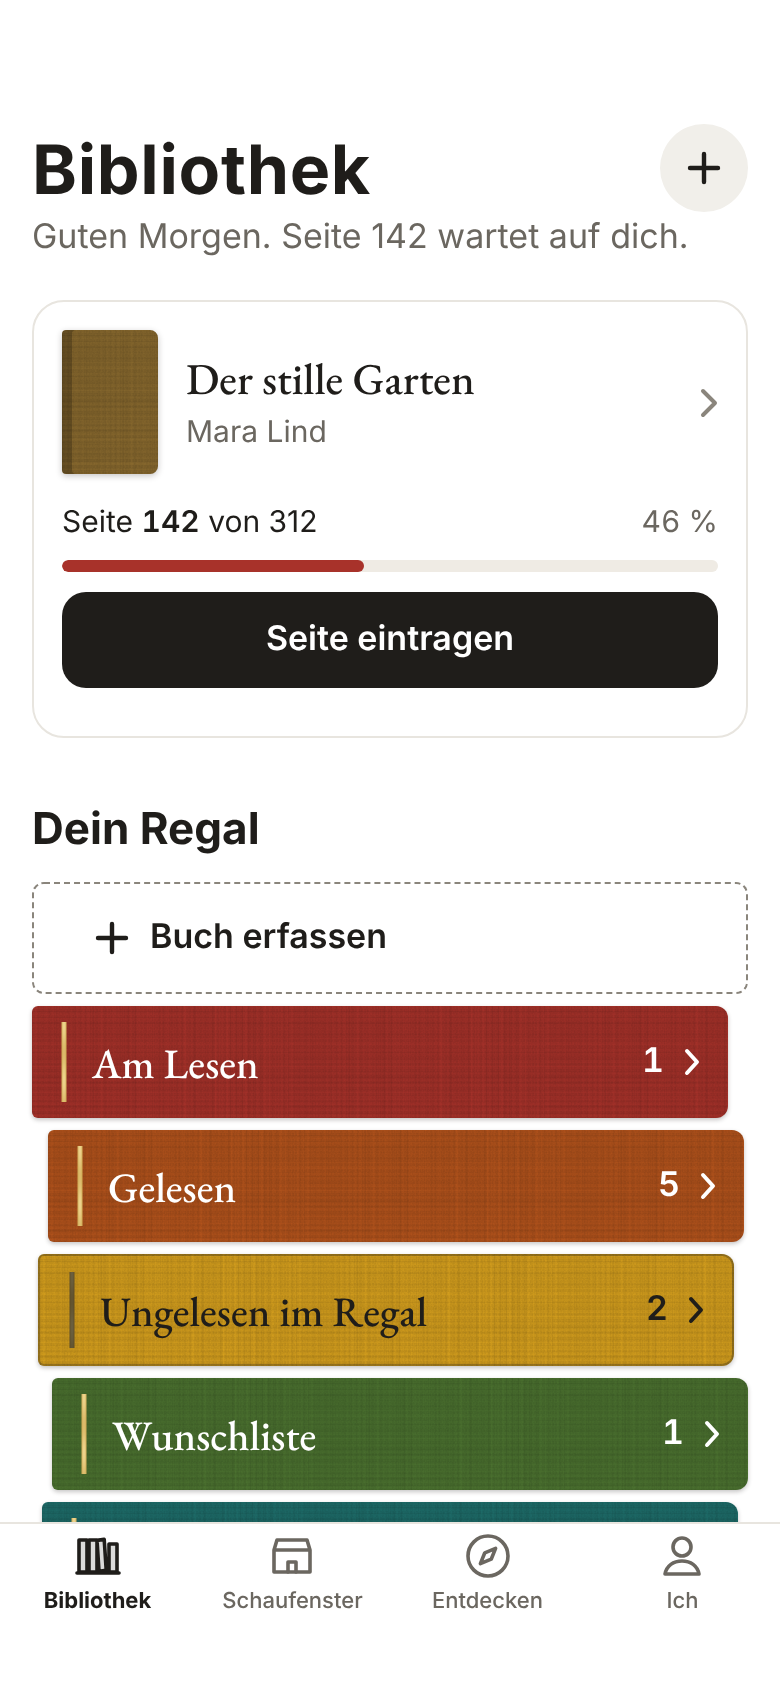
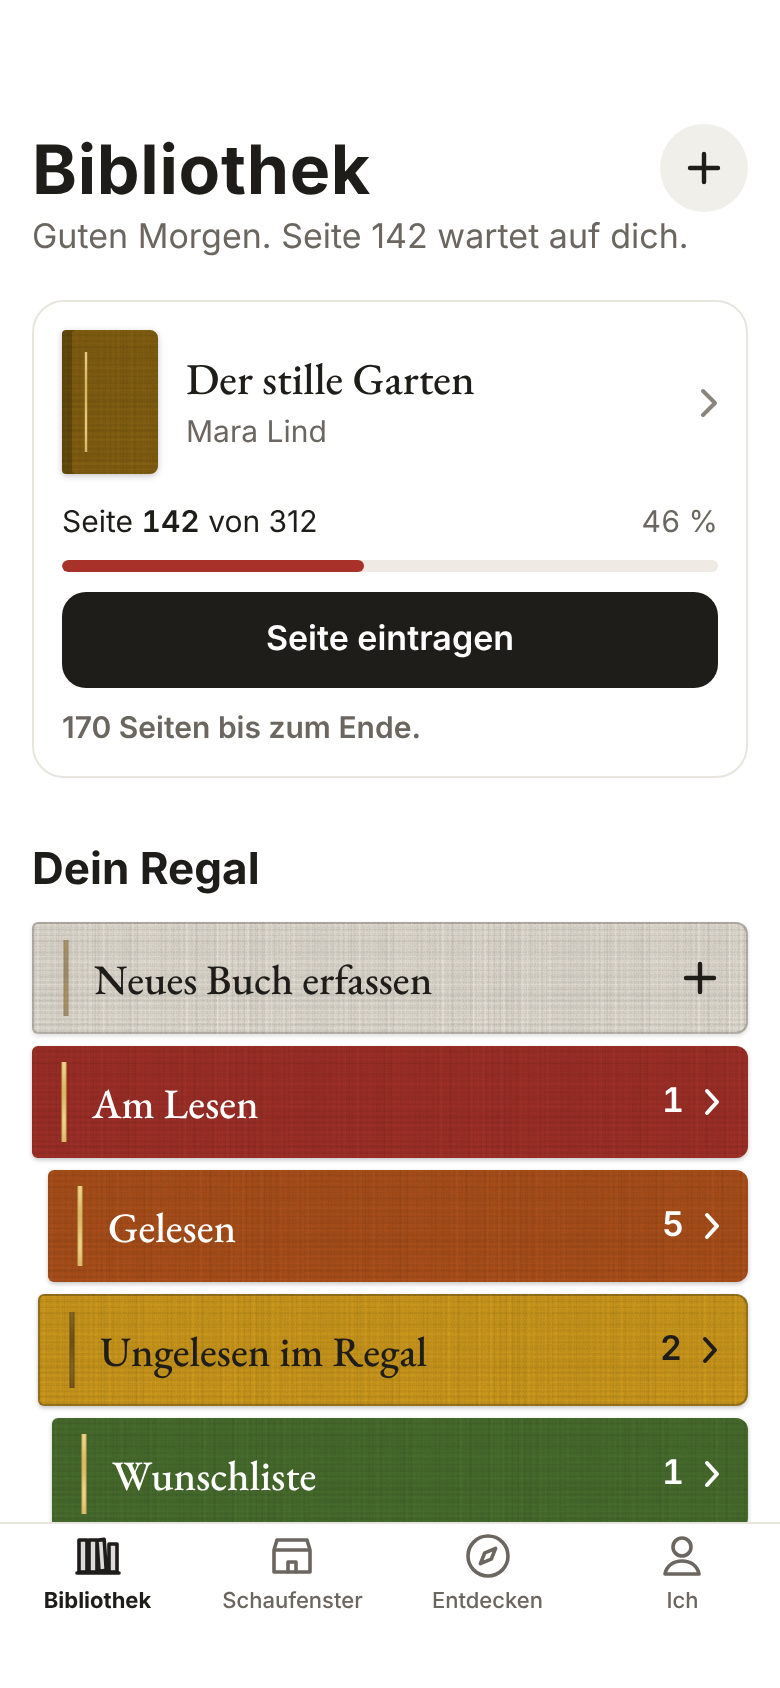
Abschlussprüfung eingearbeitet: Cover in Leinen, Erfassen als Leinenrücken, ruhige Rückmeldung
Claude-Session: https://claude.ai/code/session_01XFBEjrJEUrXQYaFeZnVBdK

Changed region(s): [[0.0308, 0.4005, 0.9846, 0.9242], [0.0923, 0.1848, 0.2154, 0.2773]]

diff --git a/prototyp/app/Bibliothek.dc.html b/prototyp/app/Bibliothek.dc.html
@@ -66,15 +66,16 @@ input[type=search]::-webkit-search-cancel-button{display:none}
 <h2 style="margin: 32px 0 12px 0; font-size: 22px; line-height: 28px; font-weight: 700">Dein Regal</h2>
 <div style="display: flex; flex-direction: column; gap: 6px" role="list">
 <div role="listitem">
-<button type="button" onClick="{{openAdd}}" style="width: 100%; min-height: 56px; box-sizing: border-box; border: 1.5px dashed #8A857C; border-radius: 6px; background: none; padding: 0 16px 0 30px; cursor: pointer; display: flex; align-items: center; gap: 10px; color: #1F1D1A; font-size: 17px; font-weight: 600">
-<svg width="18" height="18" viewBox="0 0 18 18" aria-hidden="true"><path d="M9 2v14M2 9h14" stroke="#1F1D1A" stroke-width="2.2" stroke-linecap="round"></path></svg>
-Buch erfassen
+<button type="button" onClick="{{openAdd}}" class="linen" style="position: relative; width: 100%; min-height: 56px; box-sizing: border-box; border: 1px solid rgba(31,29,26,.22); border-radius: 3px 6px 6px 3px; background-color: #EFE9DE; padding: 8px 0; cursor: pointer; display: flex; align-items: center; color: #1F1D1A; text-align: left; box-shadow: 0 1px 2px rgba(31,29,26,.15)">
+<img src="/_blob/b368959550b051244e1369ca50312065" alt="" style="position: absolute; left: 14px; top: 8px; width: 4px; height: calc(100% - 16px); object-fit: fill; opacity: .55">
+<span style="flex-grow: 1; padding-left: 30px; font-family: 'EB Garamond', Georgia, serif; font-size: 21px; line-height: 25px; font-weight: 500">Neues Buch erfassen</span>
+<svg width="18" height="18" viewBox="0 0 18 18" aria-hidden="true" style="flex-shrink: 0; margin-right: 14px"><path d="M9 2v14M2 9h14" stroke="#1F1D1A" stroke-width="2.2" stroke-linecap="round"></path></svg>
 </button>
 </div>
 <sc-for list="{{spines}}" as="s" hint-placeholder-count="7">
 <div role="listitem" style="{{s.rowStyle}}">
 <button type="button" aria-label="{{s.aria}}" onClick="{{s.open}}" class="linen" style="{{s.style}}">
-<img src="/_blob/eb2b88bd243bf1a65692bd8e9d605dc4" alt="" style="{{s.stamp}}">
+<img src="{{s.stampSrc}}" alt="" style="{{s.stamp}}">
 <span style="{{s.labelStyle}}">{{s.name}}</span>
 <span style="{{s.countStyle}}">{{s.count}}</span>
 <svg width="8" height="14" viewBox="0 0 8 14" aria-hidden="true" style="flex-shrink: 0; margin-right: 14px"><path d="M1.5 1.5l5 5.5-5 5.5" fill="none" stroke="{{s.ink}}" stroke-width="2" stroke-linecap="round" stroke-linejoin="round"></path></svg>
@@ -321,7 +322,8 @@ Bibliothek
 <div style="position: absolute; inset: 0">
 <div aria-hidden="true" onClick="{{closeSheet}}" style="position: absolute; inset: 0; background: rgba(31,29,26,.36)"></div>
 <div class="sheet" role="dialog" aria-modal="true" aria-label="{{sheetTitle}}" style="position: absolute; left: 0; right: 0; bottom: 0; background: #FFFFFF; border-radius: 16px 16px 0 0; padding: 4px 0 40px 0; display: flex; flex-direction: column; box-shadow: 0 -8px 30px rgba(31,29,26,.16)">
-<div style="position: relative; height: 52px; display: flex; align-items: center; justify-content: space-between; padding: 0 8px; border-bottom: 1px solid #EFEBE4">
+<div aria-hidden="true" style="width: 36px; height: 5px; border-radius: 3px; background: #D5D0C7; margin: 2px auto 0 auto"></div>
+<div style="position: relative; height: 48px; display: flex; align-items: center; justify-content: space-between; padding: 0 8px; border-bottom: 1px solid #EFEBE4">
 <button type="button" onClick="{{closeSheet}}" style="min-height: 44px; min-width: 44px; padding: 0 8px; border: none; background: none; cursor: pointer; font-size: 17px; color: #1F1D1A">Abbrechen</button>
 <h2 style="position: absolute; left: 110px; right: 110px; margin: 0; text-align: center; font-size: 17px; line-height: 22px; font-weight: 600; white-space: nowrap; overflow: hidden; text-overflow: ellipsis">{{sheetTitle}}</h2>
 <sc-if value="{{isPageSheet}}" hint-placeholder-val="{{ false }}"><button type="button" onClick="{{savePage}}" disabled="{{saveDisabled}}" style="{{saveBtnStyle}}">Sichern</button></sc-if>
@@ -399,7 +401,7 @@ var VOLS = [
   { key: 'stats', name: 'Statistiken', color: '#5A3D85', ink: '#FFFFFF', sub: 'Was dein Lesen über dich erzählt.' }
 ];
 var BOOKS = [
-  { id: 'garten', vol: 'lesen', title: 'Der stille Garten', author: 'Mara Lind', genre: 'Roman / Gegenwart', pages: 312, c: '#8A6A2E', status: 'Am Lesen seit 2. Oktober',
+  { id: 'garten', vol: 'lesen', title: 'Der stille Garten', author: 'Mara Lind', genre: 'Roman / Gegenwart', pages: 312, c: '#8A6512', status: 'Am Lesen seit 2. Oktober',
     copy: [['Format', 'Hardcover'], ['Steht', 'Nachttisch']], history: [['Begonnen', '2. Okt. 2026']] },
   { id: 'salz', vol: 'gelesen', fresh: true, title: 'Salz und Asche', author: 'Jonas Brehm', genre: 'Roman / Gegenwart', c: '#6E1E18', stars: 4, done: 'September 2026',
     reading: 'Für mich ist es kein Buch über eine Familie, sondern über das Bleiben. Alle wollen weg von der Küste, und am Ende ist sie das Einzige, das jedem von ihnen gehört.',
@@ -407,24 +409,24 @@ var BOOKS = [
     flow: 'flüssig', lang: 'schön', tempo: 'ruhig', echo: 'lässt mich nicht los', reread: 'vielleicht', more: 'unbedingt', moods: 'mitgerissen, nachdenklich',
     strong: 'Atmosphäre, Sprache', weak: 'Ende',
     copy: [['Format', 'Hardcover, Erstausgabe'], ['Besonderheit', 'signiert'], ['Steht', 'Wohnzimmer, Regal 2']], history: [['Begonnen', '2. Sept. 2026'], ['Beendet', '21. Sept. 2026']] },
-  { id: 'uhr', vol: 'gelesen', title: 'Die Uhrmacherin', author: 'Lea Sander', genre: 'Roman / Gegenwart', c: '#2C3F66', stars: 5, done: 'August 2026',
+  { id: 'uhr', vol: 'gelesen', title: 'Die Uhrmacherin', author: 'Lea Sander', genre: 'Roman / Gegenwart', c: '#1C3860', stars: 5, done: 'August 2026',
     quote: 'Jede Stunde, die sie reparierte, gehörte danach ein wenig ihr.', quotePage: 88,
     flow: 'nicht weglegbar', lang: 'jeder Satz sitzt', tempo: 'ausgewogen', echo: 'denke noch daran', reread: 'ja, sicher', more: 'unbedingt', moods: 'berührt',
     strong: 'Figuren, Sprache, Ende', weak: 'nichts',
     copy: [['Format', 'Taschenbuch']], history: [['Beendet', 'Aug. 2026']] },
-  { id: 'moewe', vol: 'gelesen', title: 'Die Möwenuhr', author: 'Jonas Brehm', genre: 'Roman / Gegenwart', c: '#3F5A3A', stars: 4.5, done: 'Juli 2026',
+  { id: 'moewe', vol: 'gelesen', title: 'Die Möwenuhr', author: 'Jonas Brehm', genre: 'Roman / Gegenwart', c: '#2F4A1E', stars: 4.5, done: 'Juli 2026',
     copy: [['Format', 'Taschenbuch']], history: [['Beendet', 'Juli 2026']] },
-  { id: 'winter', vol: 'gelesen', title: 'Was der Winter weiß', author: 'Henrik Aal', genre: 'Historischer Roman', c: '#4A4A46', stars: 3.5, done: 'Juni 2026',
+  { id: 'winter', vol: 'gelesen', title: 'Was der Winter weiß', author: 'Henrik Aal', genre: 'Historischer Roman', c: '#3A2756', stars: 3.5, done: 'Juni 2026',
     copy: [['Format', 'E-Book']], history: [['Beendet', 'Juni 2026']] },
-  { id: 'stille', vol: 'gelesen', title: 'Kleine Geschichte der Stille', author: 'Ina Roth', genre: 'Sachbuch', c: '#7A5A20', stars: 4, done: 'Mai 2026',
+  { id: 'stille', vol: 'gelesen', title: 'Kleine Geschichte der Stille', author: 'Ina Roth', genre: 'Sachbuch', c: '#7A3812', stars: 4, done: 'Mai 2026',
     copy: [['Format', 'Hardcover']], history: [['Beendet', 'Mai 2026']] },
-  { id: 'moor', vol: 'ungelesen', title: 'Das Haus am Moor', author: 'Clara Feld', genre: 'Krimi & Thriller', c: '#4E3550', status: 'Im Regal seit März 2025',
+  { id: 'moor', vol: 'ungelesen', title: 'Das Haus am Moor', author: 'Clara Feld', genre: 'Krimi & Thriller', c: '#3A2756', status: 'Im Regal seit März 2025',
     copy: [['Format', 'Taschenbuch'], ['Steht', 'Flur, oberstes Fach']], history: [['Gekauft', 'März 2025']] },
-  { id: 'see', vol: 'ungelesen', title: 'Ein Jahr auf See', author: 'Tomas Lund', genre: 'Reise & Natur', c: '#2C5590', status: 'Geschenkt im Mai 2026',
+  { id: 'see', vol: 'ungelesen', title: 'Ein Jahr auf See', author: 'Tomas Lund', genre: 'Reise & Natur', c: '#1C3860', status: 'Geschenkt im Mai 2026',
     copy: [['Herkunft', 'Geschenk']], history: [['Geschenkt bekommen', 'Mai 2026']] },
-  { id: 'nebel', vol: 'wunsch', title: 'Die Farbe des Nebels', author: 'Anouk Vries', genre: 'Roman / Gegenwart', c: '#5C5C58', status: 'Vorgemerkt im Oktober 2026',
+  { id: 'nebel', vol: 'wunsch', title: 'Die Farbe des Nebels', author: 'Anouk Vries', genre: 'Roman / Gegenwart', c: '#134846', status: 'Vorgemerkt im Oktober 2026',
     copy: [], history: [['Vorgemerkt', 'Okt. 2026']] },
-  { id: 'fluss', vol: 'abgebrochen', title: 'Der lange Fluss', author: 'Paul Neumann', genre: 'Historischer Roman', c: '#263A5A', status: 'Abgebrochen bei Seite 87',
+  { id: 'fluss', vol: 'abgebrochen', title: 'Der lange Fluss', author: 'Paul Neumann', genre: 'Historischer Roman', c: '#1C3860', status: 'Abgebrochen bei Seite 87',
     copy: [['Format', 'Hardcover']], history: [['Begonnen', 'Apr. 2026'], ['Abgebrochen bei Seite 87', 'Mai 2026']] }
 ];
 var SHELVES = 0;
@@ -436,7 +438,7 @@ function stars(n) {
 }
 function cover(c, w, h) {
   var hinge = Math.round(w * 0.1);
-  return 'flex-shrink: 0; width: ' + w + 'px; height: ' + h + 'px; border-radius: 2px 4px 4px 2px; background-color: ' + c + '; box-shadow: inset ' + hinge + 'px 0 0 rgba(0,0,0,.22), 0 1px 3px rgba(31,29,26,.25)';
+  return 'flex-shrink: 0; width: ' + w + 'px; height: ' + h + 'px; border-radius: 2px 4px 4px 2px; background-color: ' + c + '; background-image: url(/_blob/eb2b88bd243bf1a65692bd8e9d605dc4), url(/_blob/fc177fec48818780d685607b9eea21d5); background-size: ' + Math.max(2, Math.round(w / 24)) + 'px 70%, 128px 128px; background-position: ' + (hinge + Math.round(w * 0.12)) + 'px 50%, 0 0; background-repeat: no-repeat, repeat; background-blend-mode: normal, multiply; box-shadow: inset ' + hinge + 'px 0 0 rgba(0,0,0,.22), 0 1px 3px rgba(31,29,26,.25)';
 }
 function rowStyle(i) { return 'display: flex; justify-content: space-between; align-items: center; gap: 12px; min-height: 48px; padding: 10px 16px; box-sizing: border-box' + (i ? '; border-top: 1px solid #EFEBE4' : ''); }
 function computeStats() {
@@ -493,9 +495,10 @@ class Component extends DCLogic {
         count: v.key === 'stats' ? '' : String(n),
         aria: v.key === 'stats' ? 'Statistiken öffnen' : v.name + ', ' + unit + ', öffnen',
         open: function () { self.nav({ screen: 'vol', vol: v.key }); },
-        rowStyle: 'padding-left: ' + offsets[i] + 'px; padding-right: ' + (10 - offsets[i]) + 'px',
+        rowStyle: 'padding-left: ' + offsets[i] + 'px',
         style: 'position: relative; width: 100%; min-height: 56px; display: flex; align-items: center; box-sizing: border-box; padding: 8px 0; border: ' + (v.edge ? '1px solid rgba(31,29,26,.3)' : 'none') + '; border-radius: 3px 6px 6px 3px; background-color: ' + v.color + '; box-shadow: 0 1px 2px rgba(31,29,26,.25); cursor: pointer; text-align: left',
-        stamp: 'position: absolute; left: 14px; top: 8px; bottom: 8px; width: 4px; height: calc(100% - 16px); object-fit: fill' + (v.ink === INK ? '; filter: brightness(.45)' : ''),
+        stamp: 'position: absolute; left: 14px; top: 8px; width: 4px; height: calc(100% - 16px); object-fit: fill',
+        stampSrc: v.ink === INK ? '/_blob/b368959550b051244e1369ca50312065' : '/_blob/eb2b88bd243bf1a65692bd8e9d605dc4',
         labelStyle: "flex-grow: 1; min-width: 0; padding-left: 30px; font-family: 'EB Garamond', Georgia, serif; font-size: 21px; line-height: 25px; font-weight: 500; color: " + v.ink + '; overflow-wrap: anywhere',
         countStyle: 'margin: 0 10px 0 8px; font-size: 17px; font-weight: 600; font-variant-numeric: tabular-nums; color: ' + v.ink
       };
@@ -589,7 +592,7 @@ class Component extends DCLogic {
       current: { title: cur.title, author: cur.author, pages: cur.pages, cover: cover(cur.c, 48, 72) },
       page: s.page, percent: percent,
       progressStyle: 'height: 100%; width: ' + percent + '%; background: #A8322A; border-radius: 3px',
-      savedText: s.saved, savedStyle: s.saved ? 'margin: 0; font-size: 15px; line-height: 20px; color: #4C7330; font-weight: 600' : 'margin: 0; height: 0; overflow: hidden',
+      savedText: s.saved || (cur.pages - s.page) + ' Seiten bis zum Ende.', savedStyle: 'margin: 0; min-height: 20px; font-size: 15px; line-height: 20px; font-weight: 600; color: ' + (s.saved ? '#4C7330' : '#6B6760'),
       spines: spines, vol: vol, book: book, query: s.query, hasQuery: !!s.query,
       quote: { text: BOOKS[1].quote, source: BOOKS[1].title + ', Seite ' + BOOKS[1].quotePage + ', aus deiner Karte' },
       stats: STATS.summary, statSections: STATS.sections,

diff --git a/prototyp/app/flow.js b/prototyp/app/flow.js
@@ -1,7 +1,7 @@
 const { chromium } = require('playwright');
 const http = require('http'), fs = require('fs'), path = require('path');
 const root = process.argv[2], out = process.argv[3];
-const srv = http.createServer((q, r) => { const BL={'fc177fec48818780d685607b9eea21d5':'linen.png','eb2b88bd243bf1a65692bd8e9d605dc4':'praegung.png','2a5bd52f874870d5bef9f086f6809ef7':'vorsatz.png'}; let u=decodeURIComponent(q.url.split('?')[0]); if(u.startsWith('/_blob/')) u='/../../../../../home/claude/bookclub/prototyp/app/assets/'+BL[u.slice(7)]; const f = u.includes('/home/claude/')?u.slice(u.indexOf('/home/claude/')):path.join(root, u); fs.readFile(f, (e, d) => { if (e) { r.writeHead(404); r.end(); return; } r.writeHead(200, { 'content-type': f.endsWith('.js') ? 'text/javascript' : (f.endsWith('.png')?'image/png':'text/html') }); r.end(d); }); });
+const srv = http.createServer((q, r) => { const BL={'fc177fec48818780d685607b9eea21d5':'linen.png','eb2b88bd243bf1a65692bd8e9d605dc4':'praegung.png','2a5bd52f874870d5bef9f086f6809ef7':'vorsatz.png','b368959550b051244e1369ca50312065':'praegung-dunkel.png'}; let u=decodeURIComponent(q.url.split('?')[0]); if(u.startsWith('/_blob/')) u='/../../../../../home/claude/bookclub/prototyp/app/assets/'+BL[u.slice(7)]; const f = u.includes('/home/claude/')?u.slice(u.indexOf('/home/claude/')):path.join(root, u); fs.readFile(f, (e, d) => { if (e) { r.writeHead(404); r.end(); return; } r.writeHead(200, { 'content-type': f.endsWith('.js') ? 'text/javascript' : (f.endsWith('.png')?'image/png':'text/html') }); r.end(d); }); });
 srv.listen(8765, async () => {
   const b = await chromium.launch();
   const p = await b.newPage({ viewport: { width: 390, height: 844 }, deviceScaleFactor: 2, reducedMotion: 'reduce' });

diff --git a/prototyp/app/assets/make_textures.py b/prototyp/app/assets/make_textures.py
@@ -1,6 +1,7 @@
 """Erzeugt die Material-Raster der Bibliothek (Provenienz: dieses Skript, prozedural, keine Fremdbilder).
 linen.png      – nahtlose Buchleinen-Kachel, neutral grau, fuer multiply-Ueberlagerung (256x256, Anzeige 128 pt @2x)
 praegung.png   – eine goldene Praegelinie, senkrecht (8x224, Anzeige 4x112 pt)
+praegung-dunkel.png – dieselbe Linie als dunkle Blindpraegung fuer Ocker
 vorsatz.png    – marmoriertes Vorsatzpapier (Sepia, wenig Gold), nahtlos horizontal (780x48, Anzeige 390x24 pt)
 """
 import numpy as np
@@ -32,6 +33,16 @@ for i in range(W):
     col[:, i, :3] = np.clip(c, 0, 255)
     col[:, i, 3] = int(255 * min(1, edge * 1.8))
 Image.fromarray(col, 'RGBA').save(out + 'praegung.png')
+
+# Praegelinie dunkel (Blindpraegung) fuer helle Leinenfarben wie Ocker
+base_d = np.array([92, 66, 18]); hi_d = np.array([140, 104, 36])
+cold = np.zeros((H, W, 4), 'uint8')
+for i in range(W):
+    edge = 1 - abs((i - (W - 1) / 2) / ((W - 1) / 2))
+    c = base_d + (hi_d - base_d) * (shine * edge)
+    cold[:, i, :3] = np.clip(c, 0, 255)
+    cold[:, i, 3] = int(255 * min(1, edge * 1.8))
+Image.fromarray(cold, 'RGBA').save(out + 'praegung-dunkel.png')
 
 # Vorsatzpapier: ruhiger Papiergrund mit feinen, verwirbelten Marmoradern in Sepia und wenig Gold, horizontal kachelbar
 W, H = 780, 48

diff --git a/prototyp/app/README.md b/prototyp/app/README.md
@@ -23,6 +23,16 @@ Nach Abschlussprüfung (Impeccable) und iOS-Prüfung:
 - eine Textfarbe (Tinte) für Textknöpfe, heller Schalter im Aus-Zustand
 - Suchfeld 44 pt hoch mit Löschknopf; noch nicht gebaute Schritte öffnen einen Hinweis „Kommt bald“
 
+Zweite Prüfrunde (unabhängige Abschlussprüfung): Urteil „nachbessern“, alle acht früheren Punkte erledigt. Eingearbeitet:
+
+- Cover als Leinen mit Prägelinie, Farben nur noch aus dunklen Tönen der sieben Bandfarben
+- „Neues Buch erfassen“ als ungefärbter Leinenrücken oben auf dem Stapel statt gestrichelter Box
+- Anzahl und Pfeil der Rücken bündig rechts; Versatz nur noch links
+- Rückmeldung nach dem Eintragen ersetzt die Zeile „… Seiten bis zum Ende“, nichts verschiebt sich mehr
+- Griff oben an den Sheets; dunkle Prägelinie für Ocker als eigenes Bild statt Filter
+
+Hinweis der Prüfung, noch nicht entschieden: Sterne erscheinen überall; wenn sie „wie sehr hat es mich erreicht“ bedeuten, sollte das einmal erklärt werden.
+
 Offen: Dark Mode, Android-Variante, endgültige Bereichsnamen.
 
 ## Dateien
